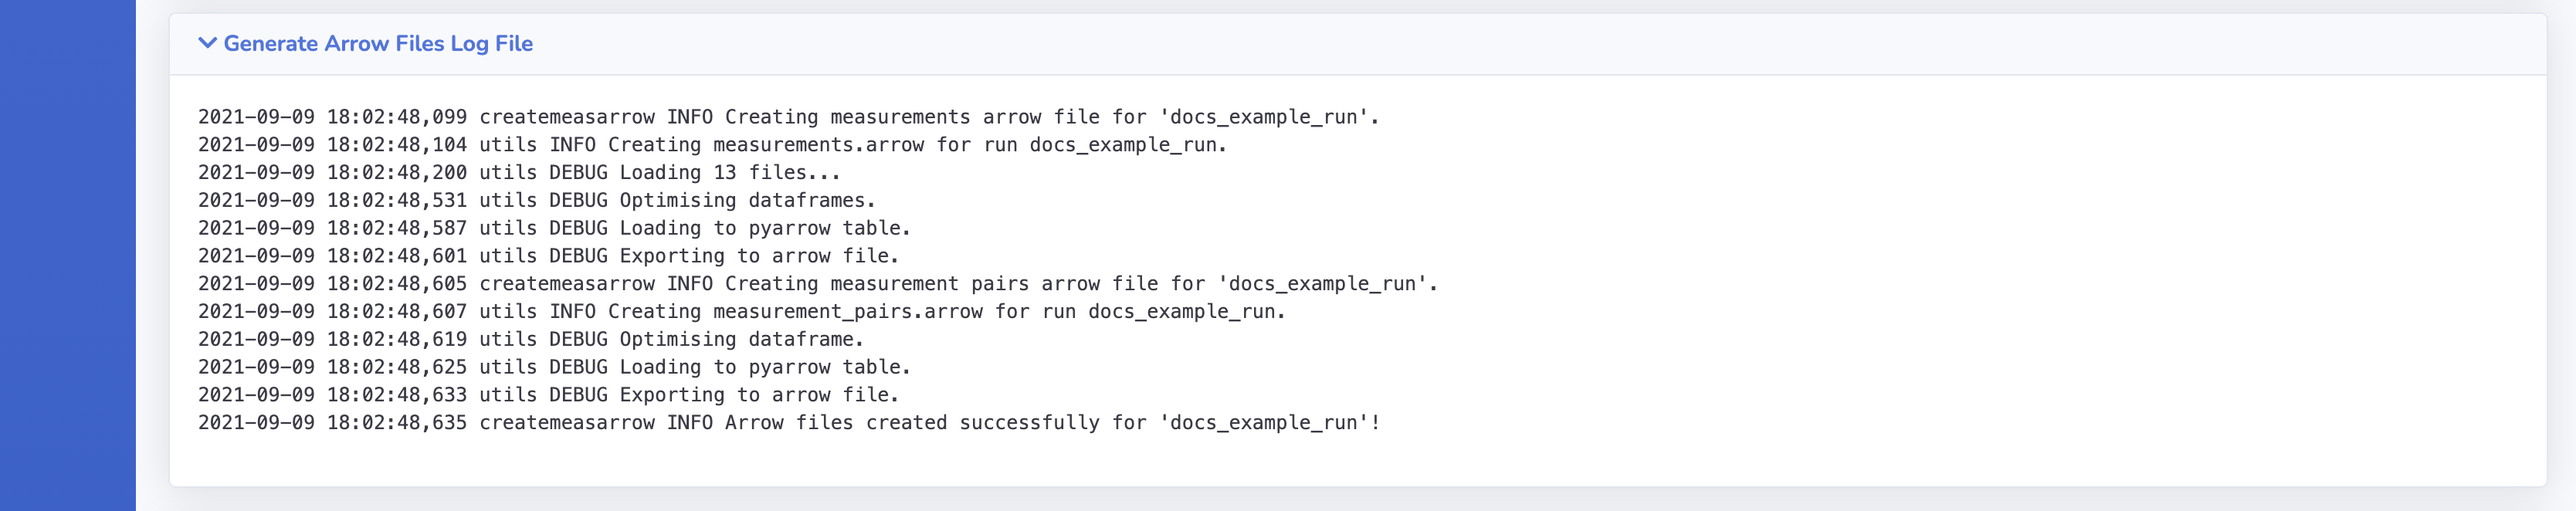
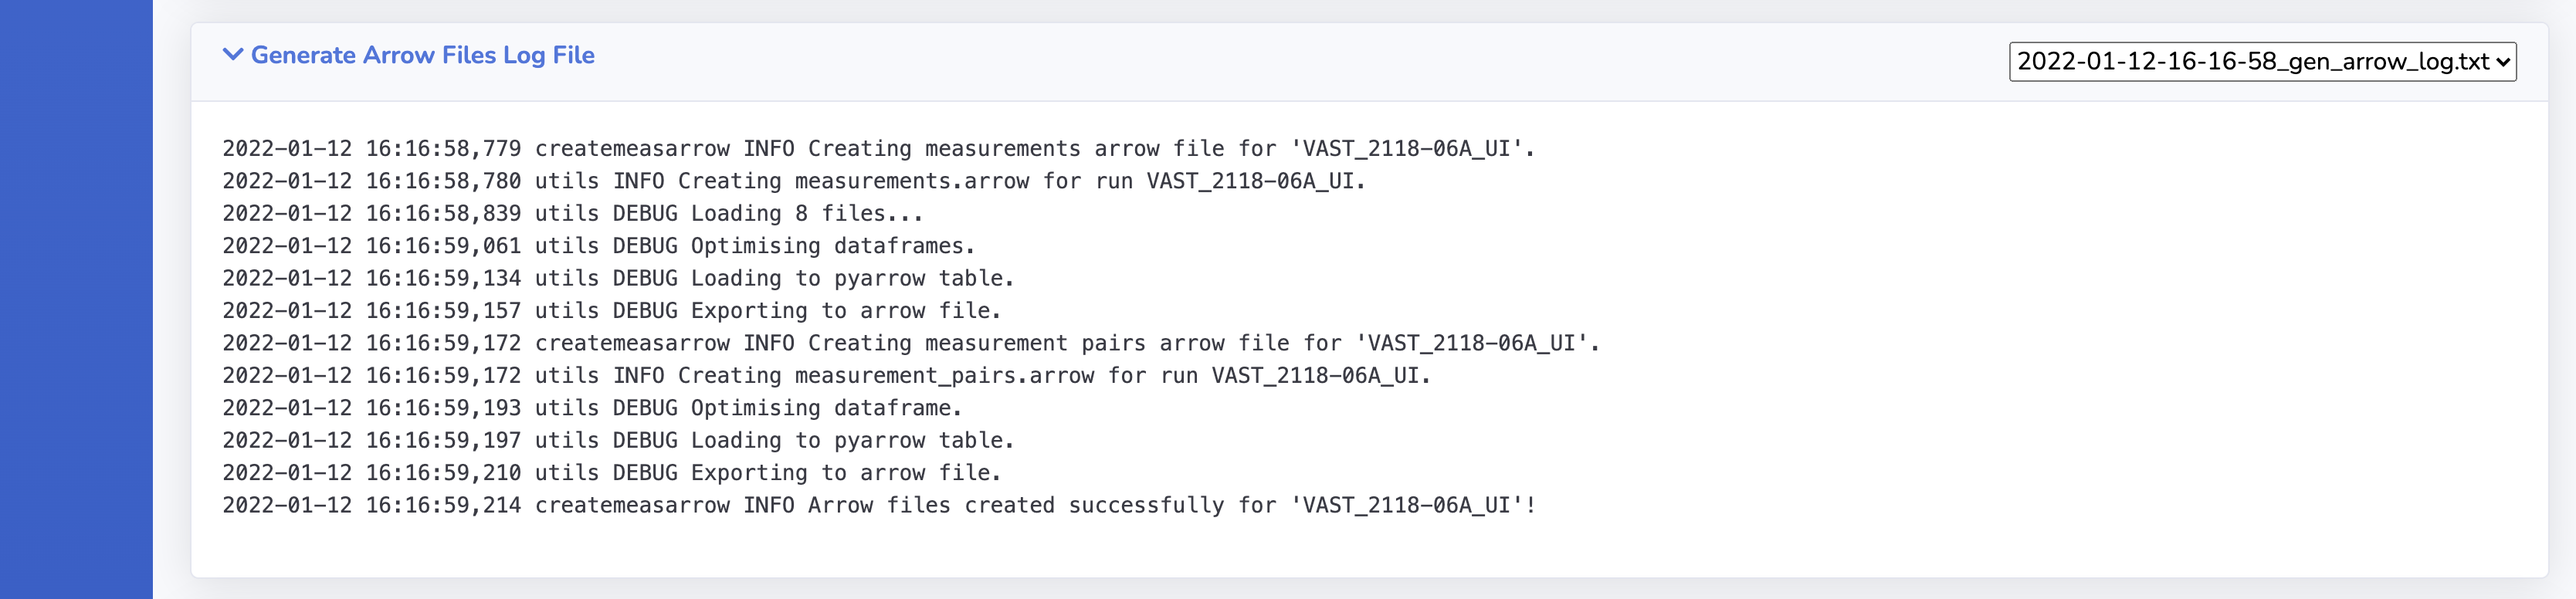
Updates to documentation to reflect changes
- Also added Mac specific .DS_store to gitignore.

Changed region(s): [[0.0312, 0.0, 0.6235, 1.0], [0.7794, 0.0604, 0.9664, 0.1511]]

diff --git a/docs/outputs/outputs.md b/docs/outputs/outputs.md
@@ -37,7 +37,7 @@ pipeline-runs
 │   ├── forced_measurements_VAST_2118-06A_EPOCH06x_I_cutout_fits.parquet
 │   ├── forced_measurements_VAST_2118-06A_EPOCH12_I_cutout_fits.parquet
 │   ├── images.parquet
-│   ├── log.txt
+│   ├── YYYY-MM-DD-HH-MM-SS_log.txt
 │   ├── measurements.arrow
 │   ├── measurement_pairs.arrow
 │   ├── measurement_pairs.parquet
@@ -110,7 +110,7 @@ Here, for each image, the selavy measurements that have been ingested are stored
 | `config_prev.yaml` | The previous pipeline run configuration file used by the [add image](../using/addtorun.md) mode. |
 | `forced_measurements*.parquet` | Multiple files that contain the forced measurements extracted from the respective image denoted in the filename. |
 | `images.parquet` | Contains the information of the images processed in the pipeline run. |
-| `log.txt` | The log file of the pipeline run. |
+| `YYYY-MM-DD-HH-MM-SS_log.txt` | The log file of the pipeline run. It is timestamped with the date and time of the run start. |
 | `measurements.arrow` | An [Apache Arrow](https://arrow.apache.org/overview/){:target="_blank"} format file containing all the measurements associated with the pipeline run (see [Arrow Files](#arrow-files)).|
 | `measurement_pairs.arrow` | An [Apache Arrow](https://arrow.apache.org/overview/){:target="_blank"} format file containing all the measurement pair metrics (see [Arrow Files](#arrow-files)). |
 | `measurement_pairs.parquet` | Contains all the measurement pairs metrics. |

diff --git a/docs/exploringwebsite/runpages.md b/docs/exploringwebsite/runpages.md
@@ -102,25 +102,25 @@ Users are able to read and post comments on a pipeline run using this form.
 ### Log Files
 
 There are three log files available, which are present depending on the actions performed.
+All logs are timestamped with the run time, and by default the most recent log is shown.
+A dropdown menu of available log files to view is available at the right hand side of the header as shown in the examples below.
+If there are no logs to show for the respective task then the log window will display `No logs to show` and the dropdown menu will appear empty.
 
 #### Run Log File
 
 The full log file of the pipeline run process.
-Will display `N/A` if the run has not been processed.
 
 ![!Run log file.](../img/run-detail4.png){: loading=lazy }
 
 #### Restore Log File
 
 The log file of the restore run action. 
-Will display `N/A` if the action has not been performed.
 
 ![!Restore log file.](../img/run-detail8.png){: loading=lazy }
 
 #### Generate Arrow Files Log File
 
 The log file of the generate arrow files action.
-Will display `N/A` if the action has not been performed.
 
 ![!Generate arrow files log file.](../img/run-detail9.png){: loading=lazy }
 

diff --git a/docs/using/addtorun.md b/docs/using/addtorun.md
@@ -46,7 +46,7 @@ Select the `Add Images or Re-Process Run` button at the top right of the run det
 
 You can refresh the page to check the status of the run. You can confirm that the images have been added correctly by consulting the log output found below the configuration file. New images should have been ingested and output similar to the following should be present:
 
-!!! example "log.txt"
+!!! example "2021-04-02-21-14-31_log.txt"
     <!-- markdownlint-disable-next-line MD046-->
     ```console
     2021-04-02 21:17:00,628 association INFO Starting association.

diff --git a/docs/design/overview.md b/docs/design/overview.md
@@ -58,7 +58,7 @@ All the results from the pipeline run are uploaded to the database. Specifically
 For large runs this can be a substantial component of the pipeline run time.
 `Bulk upload` statements will be seen in the pipeline run log file such as these shown below:
 
-!!! example "log.txt"
+!!! example "2021-03-11-12-48-21_log.txt"
     ```console
     2021-03-11 13:00:04,893 loading INFO Bulk created #557 Source
     2021-03-11 13:00:04,910 loading INFO Populate "related" field of sources...

diff --git a/docs/design/imageingest.md b/docs/design/imageingest.md
@@ -8,7 +8,7 @@ The portion of a pipeline log file below shows the messages for the ingestion of
 !!! note
     Once an image is uploaded then that image is available for all other runs to use without having to re-upload.
 
-!!! example "log.txt"
+!!! example "2021-03-11-12-48-21_log.txt"
     ```console
     2021-03-11 12:59:49,751 loading INFO Reading image VAST_0127-73A.EPOCH01.I.cutout.fits ...
     2021-03-11 12:59:49,756 utils INFO Adding new frequency band: 887
